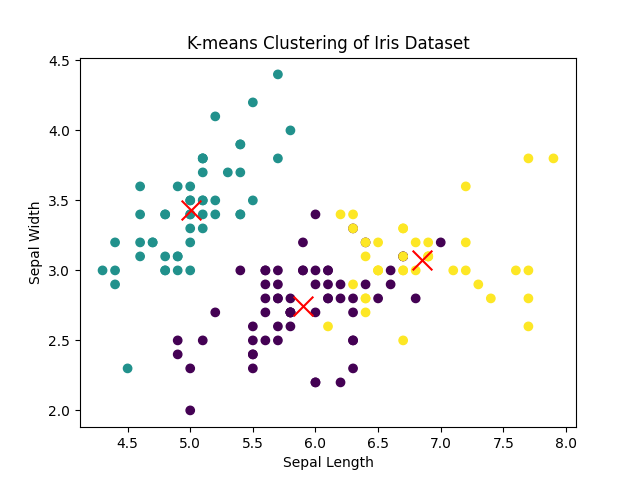
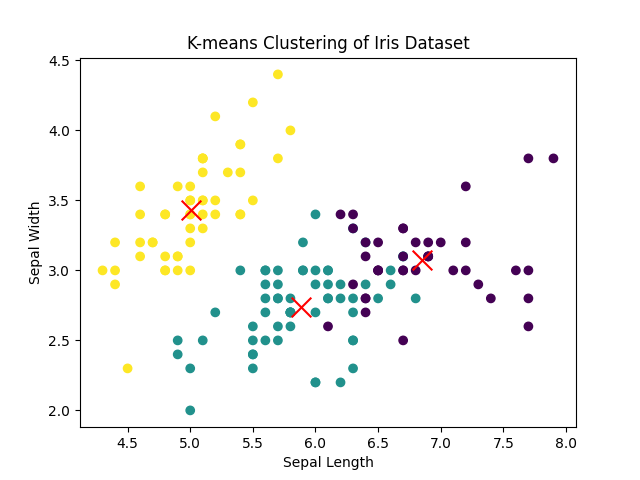
Manual user simplifications to 8o.py and 9.py

diff --git a/9.py b/9.py
@@ -8,13 +8,11 @@ X = load_iris().data[:6]
 
 print("Proximity Matrix:\n", np.round(squareform(pdist(X, 'euclidean')), 2))
 
-plt.figure(figsize=(12, 5))
-
-plt.subplot(1, 2, 1)
+# plt.subplot(1, 2, 1)
 dendrogram(linkage(X, 'single'))
 plt.title('Single-Linkage')
 
-plt.subplot(1, 2, 2)
+# plt.subplot(1, 2, 2)
 dendrogram(linkage(X, 'complete'))
 plt.title('Complete-Linkage')
 

diff --git a/explanation.md b/explanation.md
@@ -12,9 +12,9 @@
 
 ### Output
 ```text
-Starting state: 1.5107
-Local maximum found at x = 2.0107
-Objective value: 3.9999
+Starting state: -0.8789
+Local maximum found at x = 2.0211
+Objective value: 3.9996
 ```
 
 ## `2a.py`
@@ -85,10 +85,10 @@ The optimal path taken is: [0, 1, 3, 5]
 
 ### Output
 ```text
-Accuracy: 0.7988826815642458
+Accuracy: 0.7932960893854749
 Confusion Matrix:
- [[91 19]
- [17 52]]
+ [[84 23]
+ [14 58]]
 ```
 
 ## `7.py`
